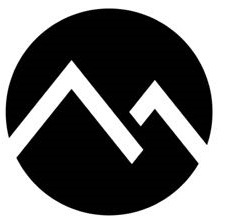
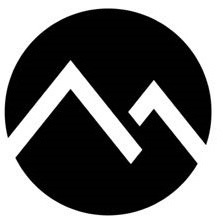
Add files via upload

diff --git a/contact.html b/contact.html
@@ -42,7 +42,7 @@
 				<span class="icon-bar"></span>
 				<span class="icon-bar"></span>
 			</button>
-			<a href="#" class="navbar-left"><img src="./graphics/icon.jpg" width="50px" height="50px"></a>
+			<a href="#" class="navbar-left"><img src="./graphics/icon.png" width="50px" height="50px"></a>
 			<a class="navbar-brand" href="#"></a>
 			</div>
 			<div id="navbar" class="navbar-collapse collapse">

diff --git a/human.html b/human.html
@@ -44,7 +44,7 @@
 				<span class="icon-bar"></span>
 				<span class="icon-bar"></span>
 			</button>
-			<a href="#" class="navbar-left"><img src="./graphics/icon.jpg" width="50px" height="50px"></a>
+			<a href="#" class="navbar-left"><img src="./graphics/icon.png" width="50px" height="50px"></a>
 			<a class="navbar-brand" href="#"></a>
 			</div>
 			<div id="navbar" class="navbar-collapse collapse">

diff --git a/index.html b/index.html
@@ -42,7 +42,7 @@
 				<span class="icon-bar"></span>
 				<span class="icon-bar"></span>
 			</button>
-			<a href="#" class="navbar-left"><img src="./graphics/icon.jpg" width="50px" height="50px"></a>
+			<a href="#" class="navbar-left"><img src="./graphics/icon.png" width="50px" height="50px"></a>
 			<a class="navbar-brand" href="#"></a>
 			</div>
 			<div id="navbar" class="navbar-collapse collapse">

diff --git a/people.html b/people.html
@@ -42,7 +42,7 @@
 				<span class="icon-bar"></span>
 				<span class="icon-bar"></span>
 			</button>
-			<a href="#" class="navbar-left"><img src="./graphics/icon.jpg" width="50px" height="50px"></a>
+			<a href="#" class="navbar-left"><img src="./graphics/icon.png" width="50px" height="50px"></a>
 			<a class="navbar-brand" href="#"></a>
 			</div>
 			<div id="navbar" class="navbar-collapse collapse">

diff --git a/research.html b/research.html
@@ -42,7 +42,7 @@
 				<span class="icon-bar"></span>
 				<span class="icon-bar"></span>
 			</button>
-			<a href="#" class="navbar-left"><img src="./graphics/icon.jpg" width="50px" height="50px"></a>
+			<a href="#" class="navbar-left"><img src="./graphics/icon.png" width="50px" height="50px"></a>
 			<a class="navbar-brand" href="#"></a>
 			</div>
 			<div id="navbar" class="navbar-collapse collapse">

diff --git a/teaching.html b/teaching.html
@@ -42,7 +42,7 @@
 				<span class="icon-bar"></span>
 				<span class="icon-bar"></span>
 			</button>
-			<a href="#" class="navbar-left"><img src="./graphics/icon.jpg" width="50px" height="50px"></a>
+			<a href="#" class="navbar-left"><img src="./graphics/icon.png" width="50px" height="50px"></a>
 			<a class="navbar-brand" href="#"></a>
 			</div>
 			<div id="navbar" class="navbar-collapse collapse">

diff --git a/virus.html b/virus.html
@@ -47,7 +47,7 @@
 				<span class="icon-bar"></span>
 				<span class="icon-bar"></span>
 			</button>
-			<a href="#" class="navbar-left"><img src="./graphics/icon.jpg" width="50px" height="50px"></a>
+			<a href="#" class="navbar-left"><img src="./graphics/icon.png" width="50px" height="50px"></a>
 			<a class="navbar-brand" href="#"></a>
 			</div>
 			<div id="navbar" class="navbar-collapse collapse">

diff --git a/css/carousel.css b/css/carousel.css
@@ -30,6 +30,10 @@ ul {
 -------------------------------------------------- */
 
 /* Special class on .container surrounding .navbar, used for positioning it into place. */
+.navbar{
+	  background-color: rgba(255,255,255,0.1);
+	  border-bottom: 0px;
+}
 .navbar-wrapper {
   position: absolute;
   top: 0;
